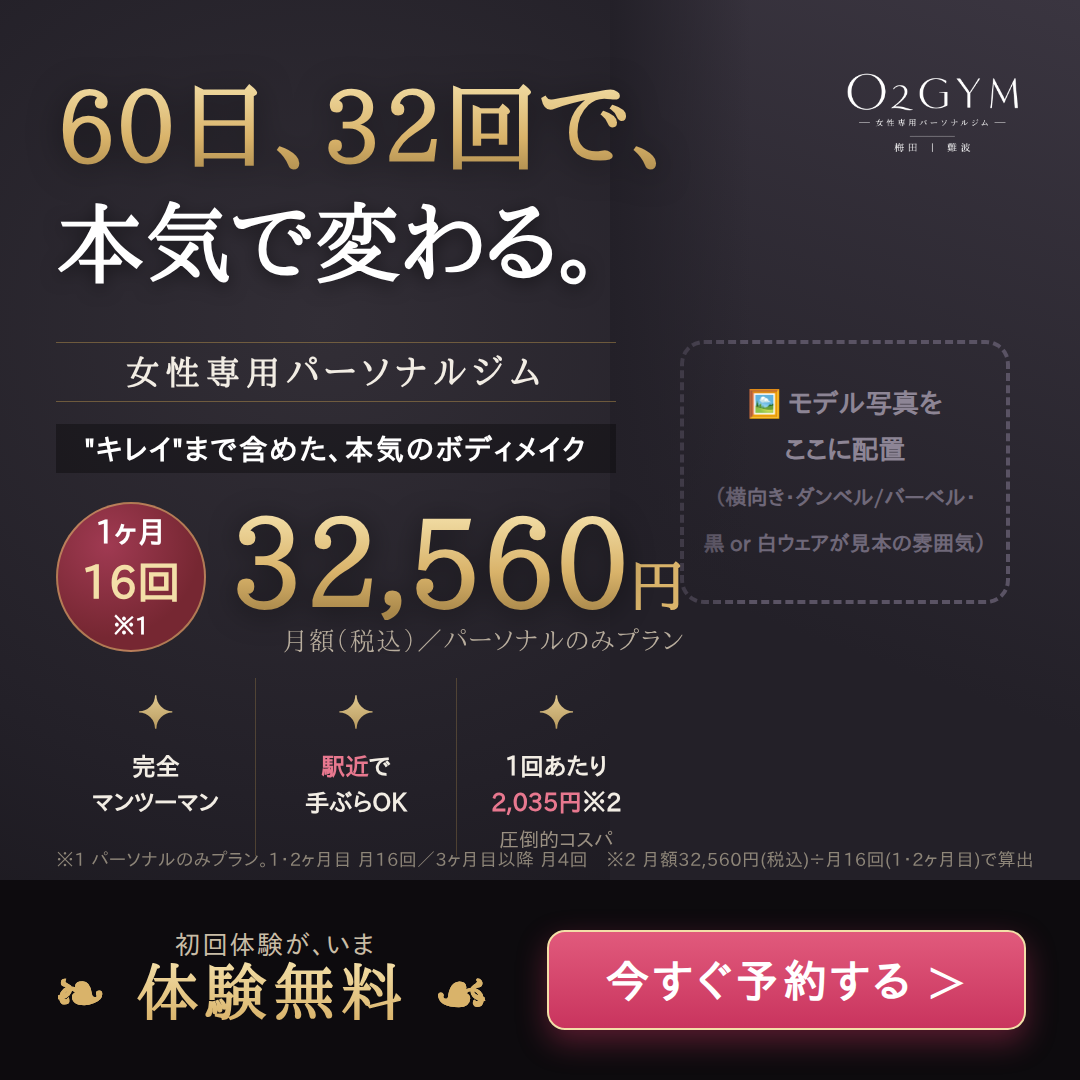
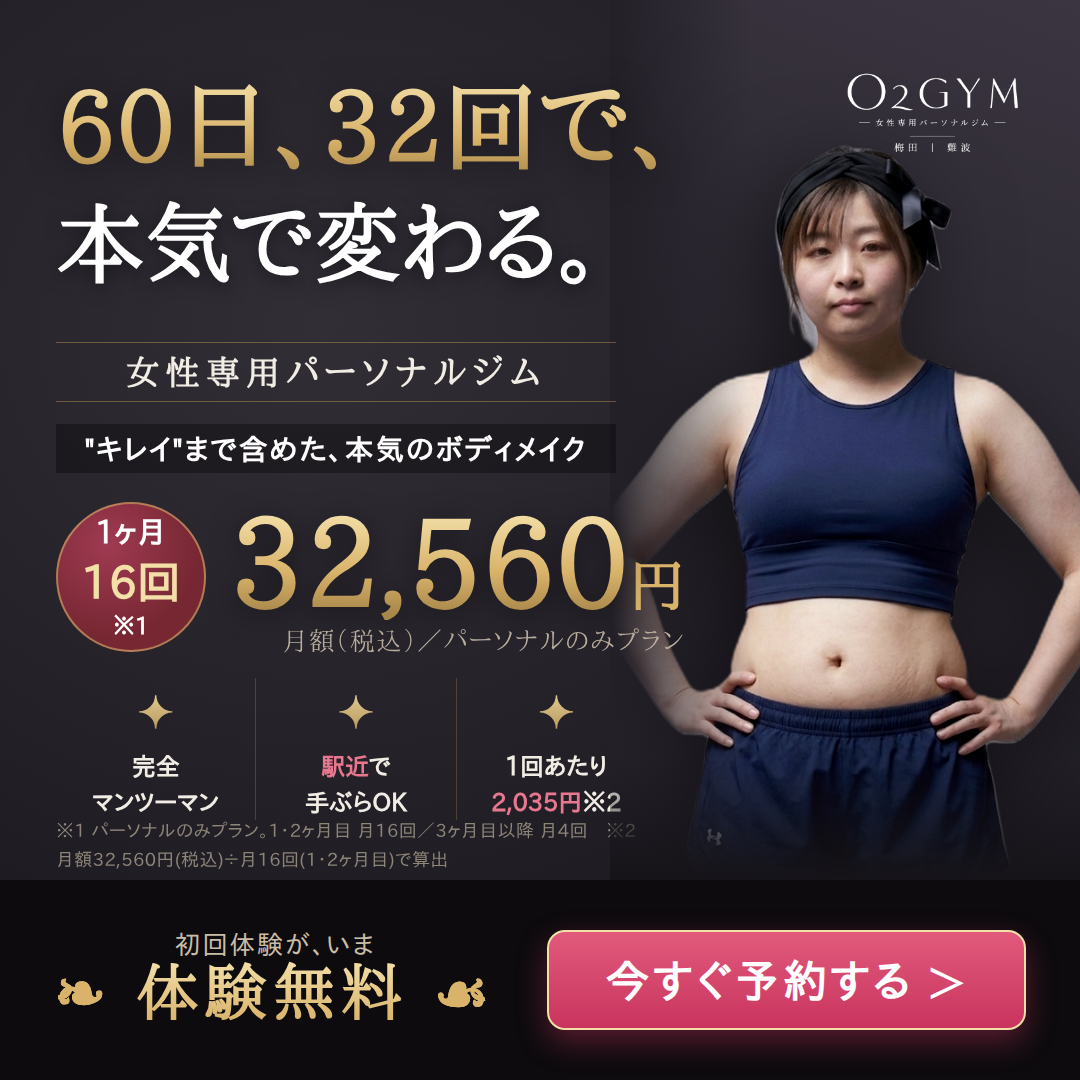
O2ジム: feed_C1にモデル実写真を合成し完成（無加工・要掲載同意）
提供されたスタジオ写真をu2net_human_segで切り抜き(顔・体は無加工)、
ダークゾーンに配置。ロゴとのクリアランス調整、注記の幅制限と装飾行削除で
可読性を確保。manifestにconsent_requiredで登録。

Claude-Session: https://claude.ai/code/session_017B4ry9xAEekM39iodL8XgY

diff --git a/creative-studio/output/o2gym-summer/feed_C1.html b/creative-studio/output/o2gym-summer/feed_C1.html
@@ -17,9 +17,14 @@
     background:linear-gradient(200deg,#3a3540 0%,#232028 70%);}
   .photo::after{content:"";position:absolute;inset:0;
     background:linear-gradient(90deg,#232028 0%,transparent 30%);}
-  .photo .guide{position:absolute;top:340px;left:50%;transform:translateX(-50%);
-    width:330px;text-align:center;color:#8d8595;border:4px dashed #5a5364;
-    border-radius:24px;padding:36px 18px;font-size:27px;line-height:1.7;font-weight:bold;}
+  .model{position:absolute;bottom:0;left:50%;transform:translateX(-50%);
+    width:470px;height:830px;overflow:hidden;}
+  .model img{position:absolute;bottom:-115px;left:50%;transform:translateX(-50%);
+    height:935px;display:block;
+    filter:contrast(1.04) saturate(1.02)
+      drop-shadow(-18px 24px 44px rgba(0,0,0,.55));}
+  .photo::before{content:"";position:absolute;left:0;bottom:0;width:100%;height:120px;
+    background:linear-gradient(0deg,#161419 0%,transparent 100%);z-index:2;}
 
   /* ロゴ（白版・右上） */
   .logo{position:absolute;top:44px;right:44px;width:210px;z-index:5;}
@@ -88,13 +93,13 @@
   .cta span{font-size:36px;}
 
   /* 注記 */
-  .notes{position:absolute;bottom:206px;left:56px;width:980px;color:#8d8578;
+  .notes{position:absolute;bottom:206px;left:56px;width:590px;color:#8d8578;
     font-size:18px;text-align:left;letter-spacing:.02em;line-height:1.6;}
 </style></head>
 <body><div class="stage">
 
   <div class="photo">
-    <div class="guide">🖼 モデル写真を<br>ここに配置<br><span style="font-size:21px;color:#6f6879;">（横向き・ダンベル/バーベル・<br>黒 or 白ウェアが見本の雰囲気）</span></div>
+    <div class="model"><img src="model_navy_cut.png"></div>
   </div>
 
   <div class="logo"><img src="logo_white.png"></div>
@@ -116,7 +121,7 @@
   <div class="bens">
     <div class="ben"><span class="ic">✦</span>完全<br>マンツーマン</div>
     <div class="ben"><span class="ic">✦</span><em>駅近</em>で<br>手ぶらOK</div>
-    <div class="ben"><span class="ic">✦</span>1回あたり<br><em>2,035円</em>※2<br><span class="sm">圧倒的コスパ</span></div>
+    <div class="ben"><span class="ic">✦</span>1回あたり<br><em>2,035円</em>※2</div>
   </div>
 
   <div class="notes">※1 パーソナルのみプラン。1・2ヶ月目 月16回／3ヶ月目以降 月4回　※2 月額32,560円(税込)÷月16回(1・2ヶ月目)で算出</div>
